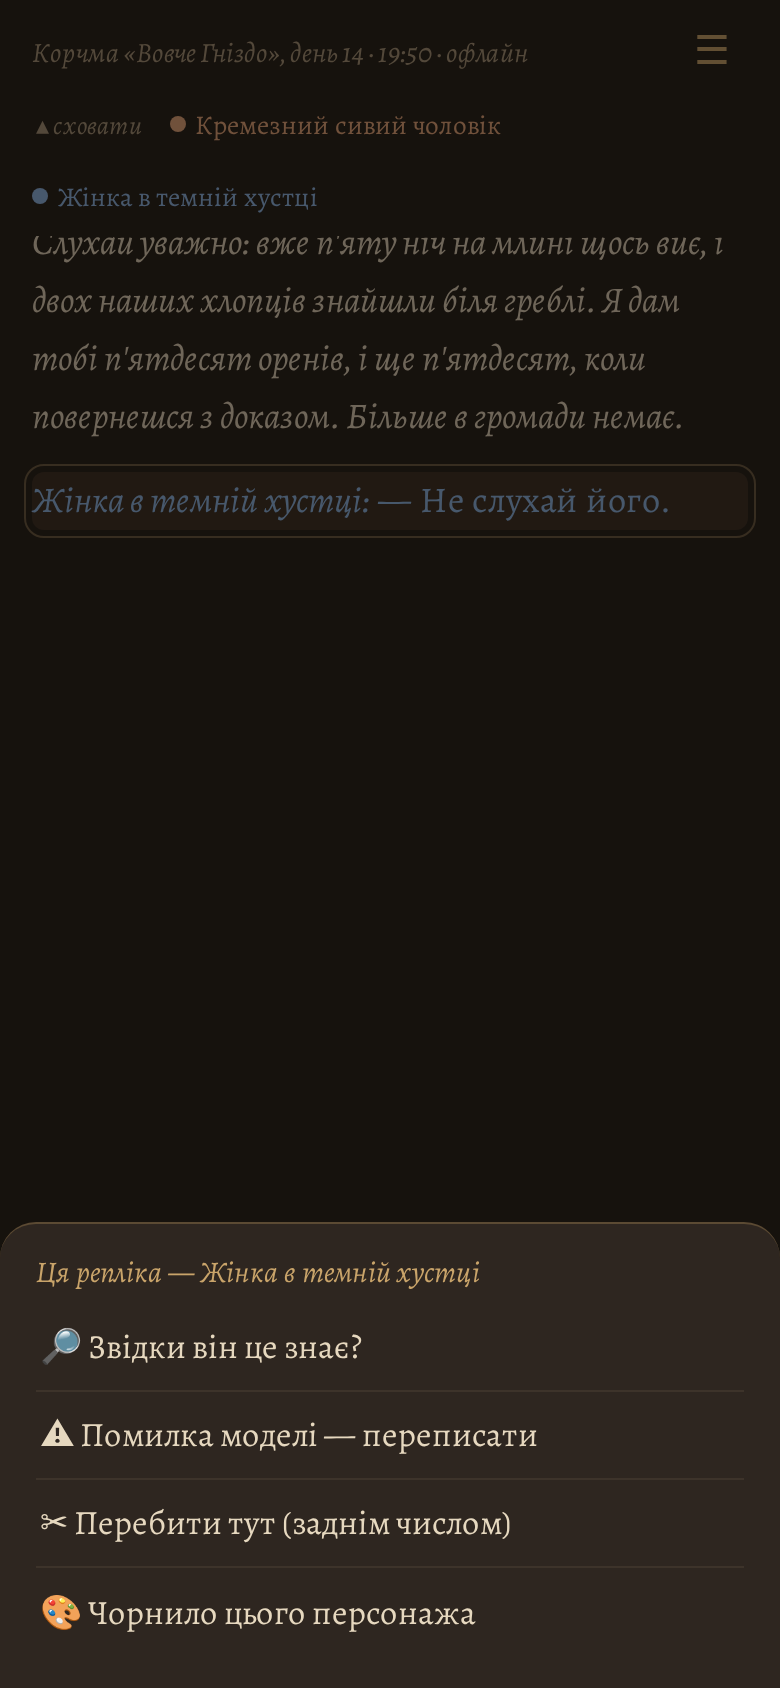
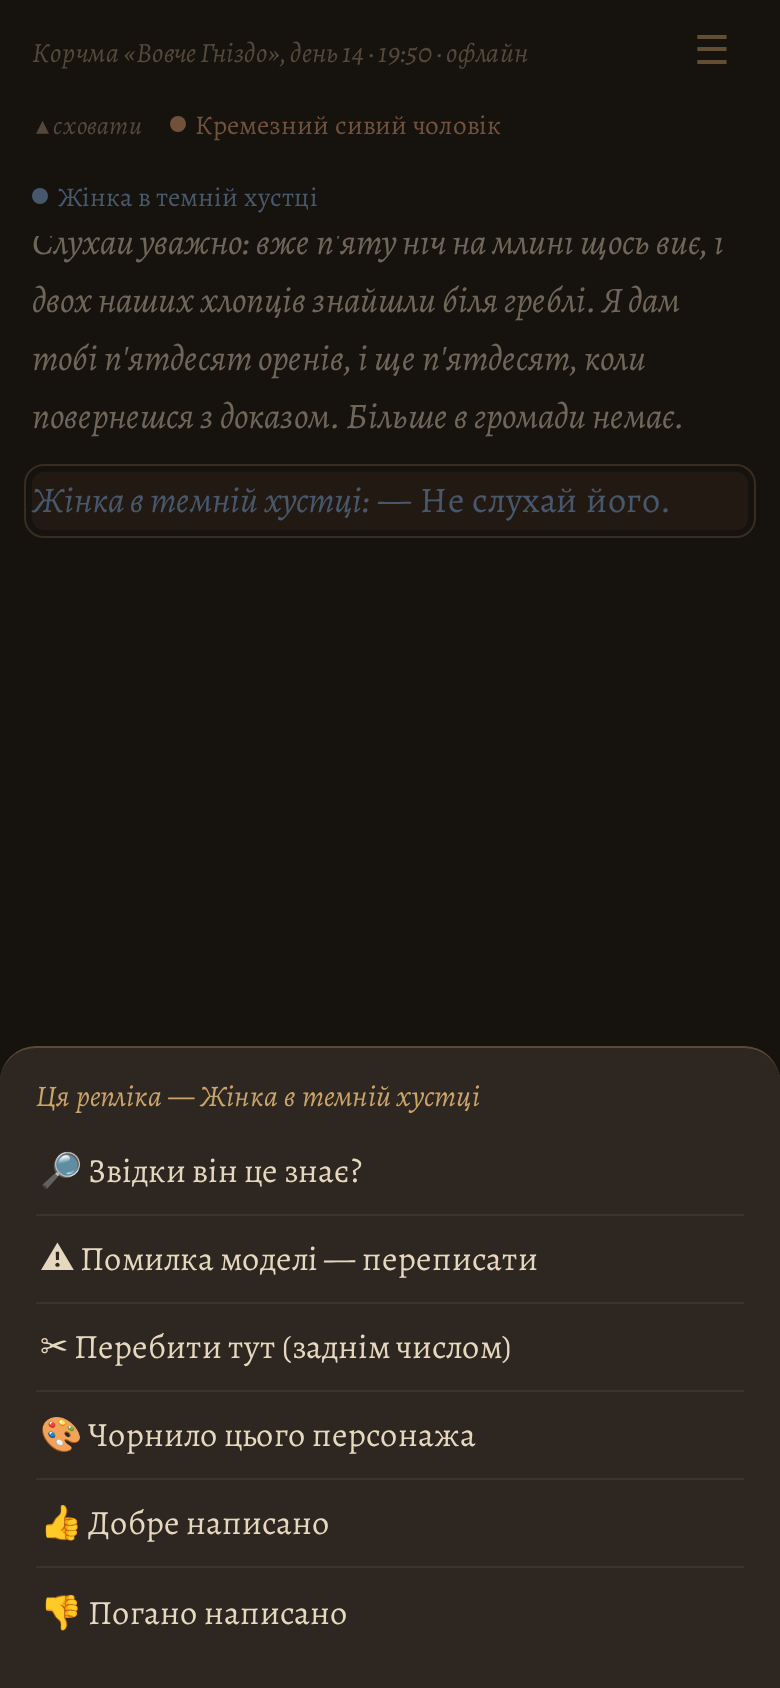
Line menu: 👍/👎 with optional note, quiet mark restored after reload; UI check and screenshots
Claude-Session: https://claude.ai/code/session_01CWLHKUxozeDSLq8FyEpMnW

diff --git a/app/static/app.js b/app/static/app.js
@@ -159,11 +159,14 @@ function sheetItems(x, offered) {
   if (offered.includes("cut") && x.kind === "say" && x.lastWorld && x.lastLine && !x.busy && !x.cut)
     out.push("cut");
   if (x.tok && (x.kind === "say" || x.kind === "act")) out.push("ink");
+  // a rating of any world line (never the player's own); the line needs its id from the server
+  if (x.event && ["say", "act", "narr"].includes(x.kind)) out.push("rate_up", "rate_down");
   return out;
 }
 const ITEM_TEXT = {
   challenge: "🔎 Звідки він це знає?", model_error: "⚠ Помилка моделі — переписати",
   cut: "✂ Перебити тут (заднім числом)", ink: "🎨 Чорнило цього персонажа",
+  rate_up: "👍 Добре написано", rate_down: "👎 Погано написано",
 };
 let sheetLine = null;
 function labelOf(p) { return p.dataset.label || ""; }
@@ -226,7 +229,9 @@ function closeSheet() { const s = $("sheet"); if (s.open) s.close(); }
 function act(a, p) {
   if (a === "ink") { inkPicker(p.dataset.tok); return; }
   closeSheet();
-  if (a === "challenge") openAsk(p);
+  if (a === "rate_up") sendRating(p, "up", "");
+  else if (a === "rate_down") openRateNote(p);
+  else if (a === "challenge") openAsk(p);
   else if (a === "model_error") openModelError(p);
   else if (a === "cut") openCut(p);
 }
@@ -273,15 +278,52 @@ feed.addEventListener("click", (ev) => {   // a tap on the story shows the rest 
   if (!onControl(ev.target)) skipPace();
 });
 
+// 👍/👎 on a world line: collected while playing. A quiet mark after the line (data-rating), kept
+// by the server (ratings.jsonl) and restored after a reload.
+const RATE_KIND = { narr: "narr", say: "npc", act: "npc_act" };
+const RATE_MARK = { up: "👍", down: "👎" };
+function setMark(p, rating) {
+  const old = p.querySelector(".rmark"); if (old) old.remove();
+  if (!RATE_MARK[rating]) { delete p.dataset.rating; return; }
+  p.dataset.rating = rating;
+  const m = el("span", "rmark", " " + RATE_MARK[rating]);
+  m.setAttribute("aria-label", rating === "up" ? "Оцінено: добре" : "Оцінено: погано");
+  (p._body || p).appendChild(m);   // right after the words, before any answer box
+}
+function applyRatings(map) {
+  for (const p of lines()) if (p.dataset.event && map[p.dataset.event]) setMark(p, map[p.dataset.event]);
+}
+async function loadRatings() {
+  try { const r = await fetch("/api/ratings"); if (r.ok) applyRatings(await r.json()); }
+  catch (e) { /* the marks are a nicety */ }
+}
+async function sendRating(p, rating, note) {
+  let r, d = {};
+  try {
+    r = await fetch("/api/rate", { method: "POST", body: JSON.stringify({
+      event: Number(p.dataset.event), kind: RATE_KIND[p.dataset.line], rating, note }) });
+    if (!r.ok) d = await r.json();
+  } catch (e) { r = { ok: false }; d = { error: "Немає зв'язку." }; }
+  if (!r.ok) { showError(d.error || "Не вдалося зберегти оцінку."); return false; }
+  setMark(p, rating);
+  return true;
+}
+function openRateNote(p) {
+  inlineBox(p, "Що не так? (можна пропустити)", "Надіслати", async (note, go, box) => {
+    go.disabled = true;
+    if (await sendRating(p, "down", note.value.trim())) box.remove(); else go.disabled = false;
+  }, ["Пропустити", () => sendRating(p, "down", "")]);
+}
+
 // "Звідки він це знає?": the player marks a line as impossible; the engine checks the channels
 function addAsk(block, event) { block.dataset.event = event; }
-function inlineBox(block, placeholder, goText, onGo) {
+function inlineBox(block, placeholder, goText, onGo, skip) {   // skip: [label, fn] replaces «Скасувати»
   if (block.querySelector(".askbox")) return;
   const box = el("span", "askbox");
   const note = el("textarea"); note.rows = 2; note.placeholder = placeholder;
   const go = el("button", "btn primary", goText); go.type = "button";
-  const cancel = el("button", "btn ghost", "Скасувати"); cancel.type = "button";
-  cancel.addEventListener("click", () => box.remove());
+  const cancel = el("button", "btn ghost", skip ? skip[0] : "Скасувати"); cancel.type = "button";
+  cancel.addEventListener("click", () => { box.remove(); if (skip) skip[1](); });
   go.addEventListener("click", () => onGo(note, go, box));
   box.append(note, go, cancel);
   block.appendChild(box);
@@ -506,7 +548,9 @@ function render(state) {
     let n = null;
     if (t.kind === "intro") n = narrBlock(t.text, "intro");
     else if (t.kind === "player") { n = meBlock(t.text); lastTurnNodes = []; }
-    else if (t.kind === "narr") { if (t.text && t.text.trim()) n = narrBlock(t.text); }
+    else if (t.kind === "narr") {
+      if (t.text && t.text.trim()) { n = narrBlock(t.text); if (t.event != null) n.dataset.event = t.event; }
+    }
     else if (t.kind === "npc_act") n = actBlock(t.tok, t.label, t.text, t.event);
     else n = sayBlock(t.tok, t.label, t.text, t.cut, t.event);
     if (!n) continue;
@@ -565,6 +609,8 @@ const handlers = {
       addAsk(turnNpc[i], id);
       if ((e.cut_lines || []).includes(id)) turnNpc[i].classList.add("cut");
     });
+    const narrs = (turnEls[e.turn != null ? e.turn : curTurn] || []).filter((n) => n.dataset.line === "narr");
+    (e.narr_lines || []).forEach((id, i) => { if (narrs[i]) narrs[i].dataset.event = id; });
     setPanel(e.panel);
     sugg.turn = e.turn;
     if (!sending) setBusy(false);       // a text typed during the turn is already on its way
@@ -667,6 +713,7 @@ async function load() {
   showError("");
   connect(state.resume_after);
   loadCast();
+  loadRatings();
   if (state.phase === "idle") loadSugg();
 }
 

diff --git a/app/static/style.css b/app/static/style.css
@@ -83,6 +83,7 @@ body.names .who { display: inline; }
 .askbox { display: flex; flex-wrap: wrap; gap: 8px; margin-top: 8px; font-style: normal; }
 .askbox textarea { flex: 1 1 100%; resize: none; background: var(--paper2); border: 1px solid var(--rule); border-radius: 10px;
   padding: 8px 10px; font-size: 16px; color: var(--ink); }
+.rmark { font-size: .7em; font-style: normal; opacity: .45; white-space: nowrap; filter: grayscale(1); }
 .askres { display: block; margin-top: 6px; font-size: 15px; line-height: 1.45; font-style: italic; color: var(--muted); }
 .linkbtn { color: var(--pen); text-decoration: underline; text-underline-offset: 3px; font-style: normal; min-height: 32px; }
 .spoiler { display: block; margin-top: 4px; padding: 6px 8px; border-radius: 8px; background: var(--paper2); color: var(--ink);

diff --git a/app/tests/ui_check.py b/app/tests/ui_check.py
@@ -100,15 +100,15 @@ def page_signature(page):
     })""")
 
 
-def sheet_items(page, sel, i):
+def sheet_items(page, sel, i, rates=False):
     """Open the line menu on the i-th paragraph matching `sel` with a right click (desktop) and
-    return the actions it offers; close it again."""
+    return the actions it offers (the rating items only with `rates`); close it again."""
     page.locator(sel).nth(i).click(button="right")
     page.wait_for_selector("#sheet[open]")
     acts = page.eval_on_selector_all("#sheet [data-act]", "ns => ns.map(n => n.dataset.act)")
     page.keyboard.press("Escape")
     page.wait_for_selector("#sheet:not([open])", state="attached")
-    return acts
+    return acts if rates else [a for a in acts if not a.startswith("rate")]
 
 
 def long_press(page, sel, i=0):
@@ -303,6 +303,42 @@ def main() -> None:
         page.keyboard.press("Escape")
         ink_h = new_ink
 
+        # ratings: 👍/👎 on world lines only; 👎 asks for an optional note; one rating per line
+        assert sheet_items(page, hsel, 0, True)[-2:] == ["rate_up", "rate_down"]
+        assert sheet_items(page, ".narr", 0, True)[-2:] == ["rate_up", "rate_down"]
+        assert sheet_items(page, ACT, 0, True)[-2:] == ["rate_up", "rate_down"]
+        page.locator(".narr").first.click(button="right")
+        page.click("#sheet [data-act=rate_up]")
+        page.wait_for_selector(".narr[data-rating=up] .rmark")
+        page.locator(hsel).first.click(button="right")
+        page.wait_for_selector("#sheet[open]")
+        assert "Добре написано" in page.inner_text("#sheet [data-act=rate_up]")
+        shot(page, "05d2-rating-in-the-menu")
+        page.click("#sheet [data-act=rate_down]")
+        page.wait_for_selector(f"{hsel} .askbox textarea")
+        assert page.get_attribute(f"{hsel} .askbox textarea", "placeholder") == \
+            "Що не так? (можна пропустити)"
+        assert page.inner_text(f"{hsel} .askbox .btn.ghost") == "Пропустити"
+        no_hscroll(page, "rating note box")
+        shot(page, "05d3-rating-note")
+        page.fill(f"{hsel} .askbox textarea", "Надто гладко, як з газети.")
+        page.click(f"{hsel} .askbox .btn.primary")
+        page.wait_for_selector(f"{hsel}[data-rating=down] .rmark")
+        assert page.locator(f"{hsel} .askbox").count() == 0
+        assert page.inner_text(f"{hsel}[data-rating=down] .rmark").strip() == "👎"
+        mark_h = page.evaluate("(s) => { const p = document.querySelector(s); "
+                               "return p.getBoundingClientRect().height }", f"{hsel}[data-rating=down]")
+        # rating again replaces: up, then down (skipping the note) on the narration
+        page.locator(".narr").first.click(button="right")
+        page.click("#sheet [data-act=rate_down]")
+        page.click(".narr .askbox .btn.ghost")
+        page.wait_for_selector(".narr[data-rating=down] .rmark")
+        assert page.locator(".narr .rmark").count() == 1, "one mark per line"
+        rated = page.evaluate("fetch('/api/ratings').then(r => r.json())")
+        assert sorted(rated.values()) == ["down", "down"], rated
+        no_hscroll(page, "rated lines")
+        shot(page, "05d4-rated-lines")
+
         # turn 3: type while the NPCs talk: it cuts in, then runs the new text
         stack.judge.rules[NEXT_TAG] = ["horst", "elza", "horst", "player"]
         stack.judge.rules[SHAPE_TAG] = ["normal"]
@@ -384,6 +420,9 @@ def main() -> None:
                                ".getPropertyValue('--ink-' + t).trim() === c", arg=[horst, ink_h])
         after = page_signature(page)
         assert page.locator(".me").count() == 5
+        page.wait_for_function("document.querySelectorAll('.rmark').length === 2", timeout=10000)
+        assert page.locator("[data-rating=down]").count() == 2, "the rating marks survive a reload"
+        after = page_signature(page)
         assert before == after, json.dumps([b for b, a in zip(before, after) if b != a] or
                                            [len(before), len(after)], ensure_ascii=False)[:2000]
         assert page.locator(".who").count() > 0 and page.locator(".who:visible").count() == 0, "names stay off"

diff --git a/app/tests/test_app_client.py b/app/tests/test_app_client.py
@@ -123,7 +123,8 @@ def test_sheet_items_follow_the_spec_rules():
         ({**base, "kind": "narr", "tok": "", "event": False, "lastWorld": False}, both, []),
         ({**base, "kind": "me", "tok": "", "event": False, "lastWorld": False}, both, []),
     ]
-    expr = "[" + ",".join(f"sheetItems({json.dumps(x)}, {json.dumps(o)})" for x, o, _ in cases) + "]"
+    expr = "[" + ",".join(f"sheetItems({json.dumps(x)}, {json.dumps(o)}).filter(a => !a.startsWith('rate'))"
+                          for x, o, _ in cases) + "]"   # the rating items: test_app_ratings.py
     got = run({"events": [], "eval": expr})["value"]
     assert got == [want for _, _, want in cases]
 
